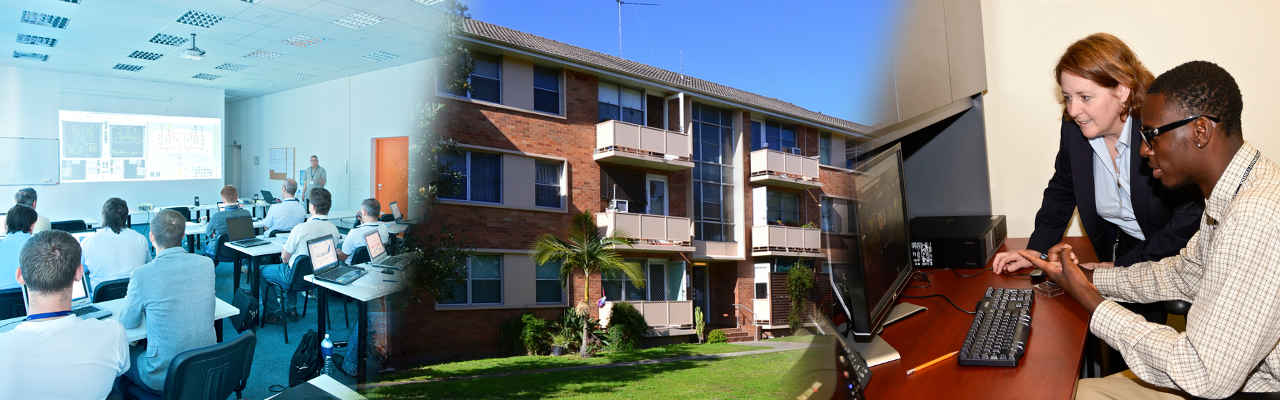
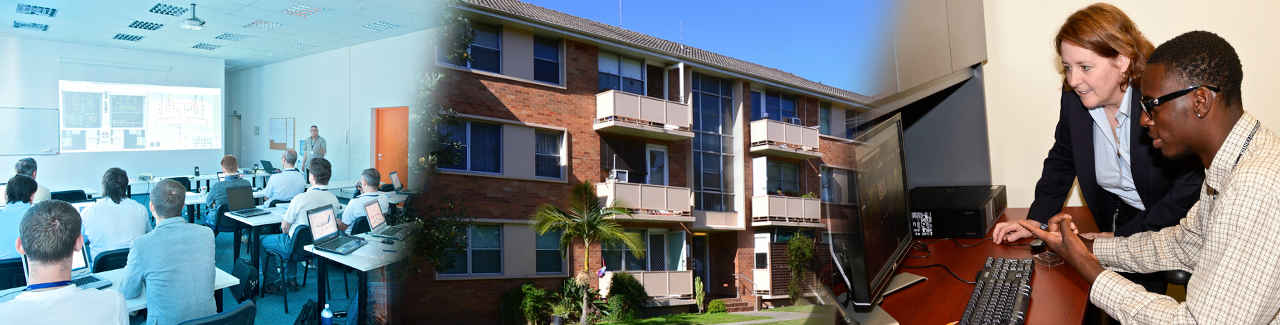
Update templates

diff --git a/scss/app.scss b/scss/app.scss
@@ -50,13 +50,15 @@
 @include motion-ui-animations;
 
 #banner {
-    background-image: url("/img/banner.jpg");
-    max-height: 10rem;
-    background-size: cover;
-    background-repeat: no-repeat;
+    width: 100%;
+    height: auto;
 }
 
 footer {
-    background-color: $primary-color;
-    color: $white;
+    background-color: $secondary-color;
+    color: $light-gray;
+
+    .columns {
+        padding: 1.5rem;
+    }
 }

diff --git a/scss/_settings.scss b/scss/_settings.scss
@@ -49,8 +49,8 @@ $global-font-size: 100%;
 $global-width: rem-calc(1200);
 $global-lineheight: 1.5;
 $foundation-palette: (
-  primary: #2199e8,
-  secondary: #777,
+  primary: dodgerblue,
+  secondary: #444,
   success: #3adb76,
   warning: #ffae00,
   alert: #ec5840,
